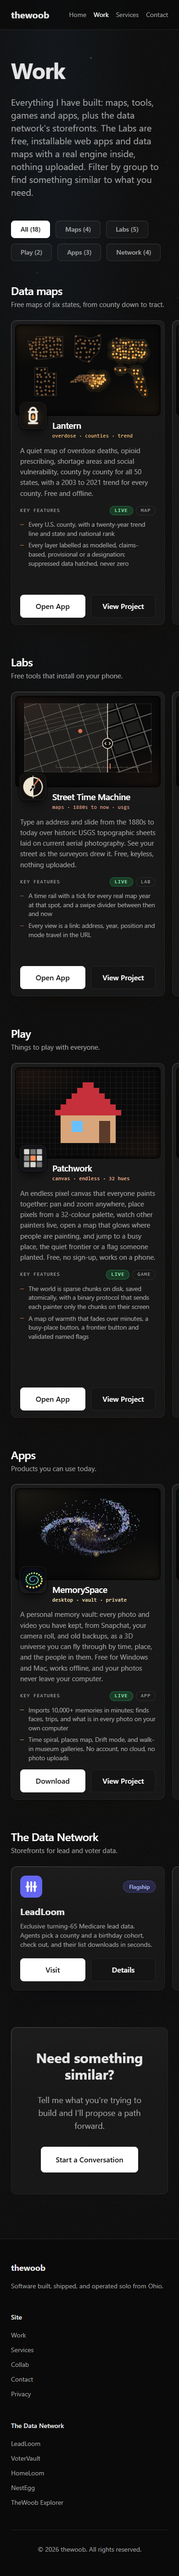
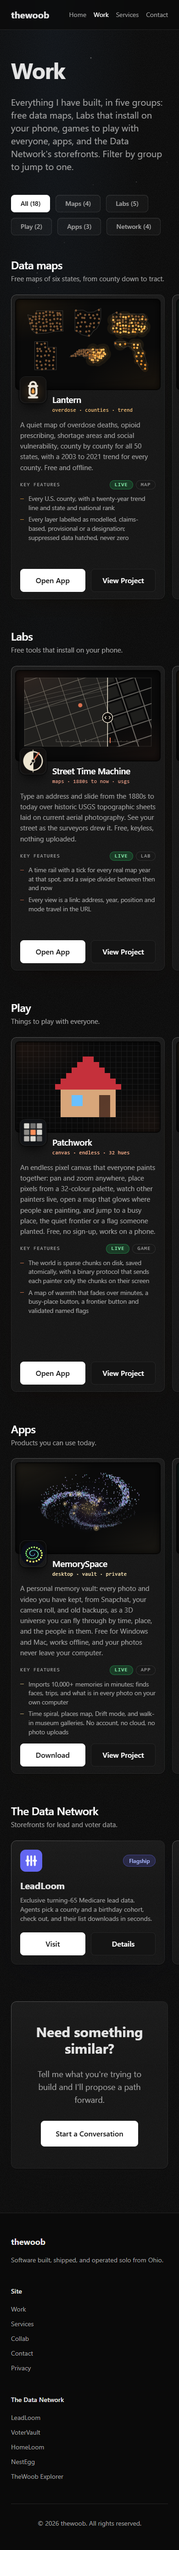
Home: More Builds in the owner's row order (swipe rows on a phone); /work intro and metadata describe all groups

Changed region(s): [[0.0615, 0.0312, 0.8615, 0.8418], [0.0615, 0.873, 0.2462, 0.9665]]

diff --git a/src/components/cards/CardGroup.tsx b/src/components/cards/CardGroup.tsx
@@ -1,8 +1,9 @@
 import { Children } from 'react'
 
 type Props = {
-  title: string
-  sub: string
+  /** with no title the group is a bare row (the home page's curated rows) */
+  title?: string
+  sub?: string
   /** heading level of the group title (the cards inside use the next one down) */
   level?: 'h2' | 'h3'
   /** columns from the lg breakpoint up (md is always two) */
@@ -18,12 +19,12 @@ const GRID = { 2: 'md:grid-cols-2', 3: 'md:grid-cols-2 lg:grid-cols-3', 4: 'md:g
  */
 export function CardGroup({ title, sub, level: H = 'h3', cols = 3, children }: Props) {
   return (
-    <section className="mb-12 last:mb-0">
-      <H className="text-2xl font-semibold tracking-[-0.02em] text-white">{title}</H>
-      <p className="mb-5 mt-1 text-[15px] leading-snug text-dark-muted">{sub}</p>
+    <section className={title ? 'mb-12 last:mb-0' : 'mb-2 last:mb-0 md:mb-6'}>
+      {title && <H className="text-2xl font-semibold tracking-[-0.02em] text-white">{title}</H>}
+      {sub && <p className="mb-5 mt-1 text-[15px] leading-snug text-dark-muted">{sub}</p>}
       <div
         role="group"
-        aria-label={title}
+        aria-label={title ?? 'More builds'}
         tabIndex={0}
         className={`row-scroll -mx-6 -mb-6 flex snap-x snap-mandatory scroll-px-6 gap-4 overflow-x-auto overscroll-x-contain px-6 pb-10 pt-1 focus-visible:outline focus-visible:outline-2 focus-visible:outline-offset-[-2px] focus-visible:outline-white/50 md:mx-0 md:mb-0 md:grid md:gap-6 md:overflow-visible md:px-0 md:pb-0 md:pt-0 ${GRID[cols]}`}
       >

diff --git a/src/app/page.tsx b/src/app/page.tsx
@@ -6,7 +6,7 @@ import { Typewriter } from '@/components/Typewriter'
 import { Atmosphere } from '@/components/Atmosphere'
 import { ProjectCard } from '@/components/cards/ProjectCard'
 import { CardGroup } from '@/components/cards/CardGroup'
-import { GROUPS, brands, groupMembers } from '@/components/cards/catalog'
+import { HOME_ROWS, brands } from '@/components/cards/catalog'
 import { storefrontHref } from '@/lib/storefrontLinks'
 
 const stats = [
@@ -355,12 +355,12 @@ export default function HomePage() {
             keep your data on your device.
           </p>
 
-          {GROUPS.filter((g) => g.key !== 'network').map((g) => (
-            <CardGroup key={g.key} title={g.title} sub={g.sub}>
-              {groupMembers(builds, (b) => b.detailsUrl.replace('/work/', ''), g.key).map((build) => (
+          {HOME_ROWS.map((row) => (
+            <CardGroup key={row[0]}>
+              {row.map((slug) => builds.find((b) => b.detailsUrl === `/work/${slug}`)!).map((build) => (
                 <ProjectCard
                   key={build.name}
-                  heading="h4"
+                  heading="h3"
                   slug={build.detailsUrl.replace('/work/', '')}
                   name={build.name}
                   logo={build.logo}

diff --git a/src/app/work/layout.tsx b/src/app/work/layout.tsx
@@ -4,10 +4,10 @@ import type { Metadata } from 'next'
 // inherited the site-wide canonical and told search engines /work was a copy of the home page.
 export const metadata: Metadata = {
   title: 'Work',
-  description: 'Products I build and run: LeadLoom, VoterVault, HomeLoom, NestEgg, TheWoob Explorer, and more, from live data marketplaces to enrichment engines.',
+  description: 'Everything I have built: free data maps, Labs that install on your phone, games, apps, and the LeadLoom, VoterVault, NestEgg and HomeLoom data storefronts.',
   openGraph: {
     title: 'Work | thewoob',
-    description: 'Products I build and run: LeadLoom, VoterVault, HomeLoom, NestEgg, TheWoob Explorer, and more, from live data marketplaces to enrichment engines.',
+    description: 'Everything I have built: free data maps, Labs that install on your phone, games, apps, and the LeadLoom, VoterVault, NestEgg and HomeLoom data storefronts.',
     images: ['/og.jpg'],
   },
   alternates: {

diff --git a/src/components/cards/catalog.ts b/src/components/cards/catalog.ts
@@ -21,6 +21,15 @@ export const ORDER: [string, GroupKey][] = [
   ['leadloom', 'network'], ['votervault', 'network'], ['nestegg', 'network'], ['homeloom', 'network'],
 ]
 
+/** The home page's More Builds, in the owner's order: one array per row (a swipe row on a phone, three across on a desktop). */
+export const HOME_ROWS: string[][] = [
+  ['memoryspace', 'fluxread', 'street-time-machine'],
+  ['airfoil', 'sky-lab', 'roofline'],
+  ['patchwork', 'haggle', 'handfont'],
+  ['lantern', 'wellspring', 'granary'],
+  ['donos'],
+]
+
 export const groupOf = (slug: string) => ORDER.find(([s]) => s === slug)?.[1]
 export const kindOf = (slug: string) => GROUPS.find((g) => g.key === groupOf(slug))?.kind
 

diff --git a/src/app/work/page.tsx b/src/app/work/page.tsx
@@ -250,7 +250,7 @@ function WorkPageInner() {
         </h1>
 
         <p className="text-xl text-dark-muted mb-12 max-w-2xl">
-          Everything I have built: maps, tools, games and apps, plus the data network&apos;s storefronts. The Labs are free, installable web apps and data maps with a real engine inside, nothing uploaded. Filter by group to find something similar to what you need.
+          Everything I have built, in five groups: free data maps, Labs that install on your phone, games to play with everyone, apps, and the Data Network&apos;s storefronts. Filter by group to jump to one.
         </p>
 
         {/* Filter Buttons */}
